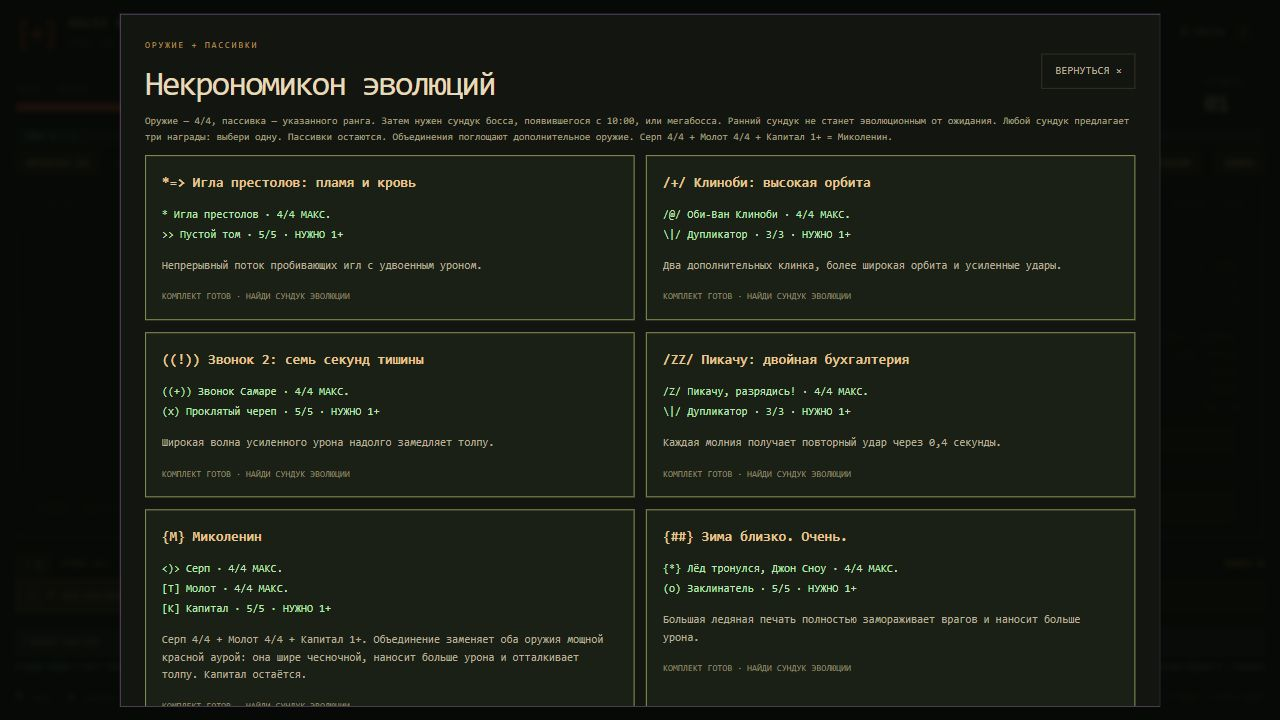
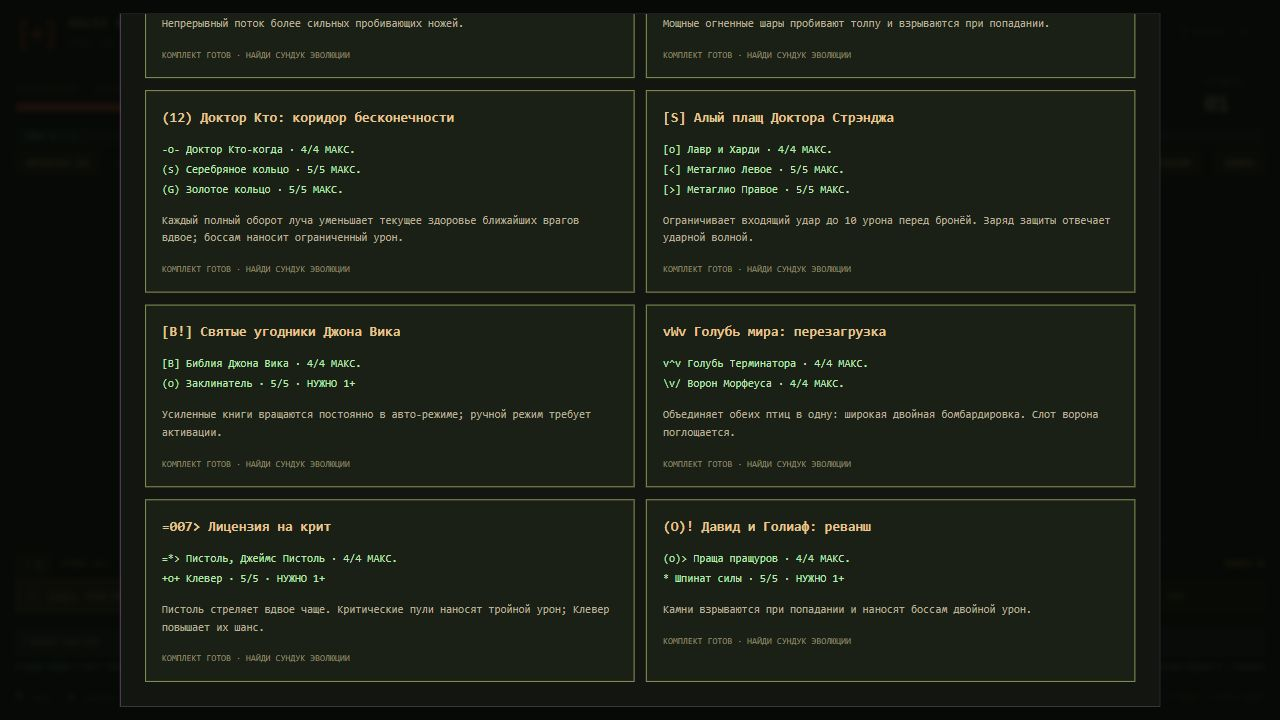
Add thirty original heroes and remove Necronomicon footer note

diff --git a/catalog.js b/catalog.js
@@ -130,18 +130,40 @@
     { id: 'revive', title: 'Ещё одна жизнь', icon: '[+!]', max: 2, cost: 150, text: 'Одно дополнительное возрождение за ранг.' }
   ];
   const CHARACTERS = [
-    { id: 'ripley', name: 'Рипли', role: 'Инженер', weapon: 'fireball', hp: 115, speed: 170, magnet: 90, dash: 3.2, ink: 7, sprite: ' _\n[O]\n/|\\', traits: { armor: 1 }, text: 'Отсылка к «Чужому»: огненный жезл и +1 брони против незваных пассажиров.' },
-    { id: 'shepard', name: 'Шепард', role: 'Командор', weapon: 'rune', hp: 100, speed: 178, magnet: 100, dash: 3, ink: 9, sprite: ' _\n[N7]\n/ \\', traits: { area: .1 }, text: 'Отсылка к Mass Effect: рикошетящие руны и на 10% большая область атак.' },
-    { id: 'samus', name: 'Сэмус', role: 'Охотница за головами', weapon: 'dagger', hp: 120, speed: 180, magnet: 85, dash: 2.9, ink: 12, sprite: ' /_\\\n[=]=>\n/ \\', traits: { armor: 2 }, text: 'Отсылка к Metroid: скоростные ножи как лучевая пушка и +2 брони.' },
-    { id: 'mando', name: 'Мандалорец', role: 'Охотник', weapon: 'axe', hp: 110, speed: 175, magnet: 90, dash: 3.1, ink: 4, sprite: ' /T\\\n[|]\n/ \\', traits: { power: .1 }, text: 'Отсылка к Star Wars: метательные топоры и +10% урона. Таков путь.' },
-    { id: 'hunter', name: 'Мара', role: 'Охотница', weapon: 'needle', hp: 100, speed: 172, magnet: 82, dash: 3.4, ink: 8, sprite: ' ^\n/@\\\n/ \\', text: 'Точный огонь. Надёжный герой для первого забега.' },
+    { id: 'ripley', name: 'Тлен', role: 'Утилизатор', weapon: 'fireball', hp: 115, speed: 170, magnet: 90, dash: 3.2, ink: 7, sprite: ' (x)\n./|\\.\n / \\', traits: { armor: 1 }, text: 'Сжигает проблемы до состояния философии. Огненные шары и +1 брони.' },
+    { id: 'shepard', name: 'Сигма', role: 'Рунный командир', weapon: 'rune', hp: 100, speed: 178, magnet: 100, dash: 3, ink: 9, sprite: '[S]\n/|>\n/ \\', traits: { area: .1 }, text: 'Суммирует ошибки противника. Рикошетящие руны и +10% области атак.' },
+    { id: 'samus', name: 'Болт', role: 'Срыватель резьбы', weapon: 'dagger', hp: 120, speed: 180, magnet: 85, dash: 2.9, ink: 12, sprite: ' [B]\n--|>>\n / \\', traits: { armor: 2 }, text: 'На каждую проблему найдётся свой болт. Скоростные ножи и +2 брони.' },
+    { id: 'mando', name: 'Шрам', role: 'Топорный мастер', weapon: 'axe', hp: 110, speed: 175, magnet: 90, dash: 3.1, ink: 4, sprite: '[/]\n/|P\n/ \\', traits: { power: .1 }, text: 'Рубит с плеча, объясняет потом. Метательные топоры и +10% урона.' },
+    { id: 'hunter', name: 'Клык', role: 'Охотник', weapon: 'needle', hp: 100, speed: 172, magnet: 82, dash: 3.4, ink: 8, sprite: ' ^\n/@\\\n/ \\', text: 'Кусается на расстоянии. Точный огонь и ровные параметры для первого забега.' },
     { id: 'duelist', name: 'Тень', role: 'Дуэлянт', weapon: 'blades', hp: 95, speed: 192, magnet: 82, dash: 2.6, ink: 4, sprite: ' /\\\n<&>\n/ \\', text: 'Быстрый боец с клинком на орбите и частым рывком.' },
-    { id: 'witch', name: 'Искра', role: 'Ведьма', weapon: 'lightning', hp: 85, speed: 180, magnet: 105, dash: 3.4, ink: 5, sprite: ' /\\\n/{\\\n/ \\', text: 'Цепная молния поражает несколько врагов сразу.' },
-    { id: 'warden', name: 'Север', role: 'Страж', weapon: 'frost', hp: 150, speed: 154, magnet: 82, dash: 3.8, ink: 9, sprite: ' _\n[#]\n/ \\', text: 'Много здоровья. Ледяная печать замедляет окружение.' },
-    { id: 'scout', name: 'Руна', role: 'Следопыт', weapon: 'boomerang', hp: 90, speed: 200, magnet: 95, dash: 3, ink: 7, sprite: ' v\n(%>\n/ \\', text: 'Самый быстрый герой. Серп бьёт по пути туда и обратно.' },
-    { id: 'plague', name: 'Мор', role: 'Алхимик', weapon: 'poison', hp: 110, speed: 168, magnet: 147, dash: 3.4, ink: 3, sprite: ' _\n(x)\n/ \\', text: 'Веди толпу по ядовитому следу. Собирает души издалека.' }
+    { id: 'witch', name: 'Катод', role: 'Минус на плюсе', weapon: 'lightning', hp: 85, speed: 180, magnet: 105, dash: 3.4, ink: 5, sprite: '  (-)\n==|+|==\n  / \\', text: 'Плохой контакт — хорошая молния. Цепной разряд поражает несколько целей.' },
+    { id: 'warden', name: 'Вектор-6', role: 'Военный прототип', weapon: 'frost', hp: 150, speed: 154, magnet: 82, dash: 3.8, ink: 9, sprite: '[V6]\n/|=>\n/ \\', text: 'Холодный расчёт, прямые углы. 150 здоровья и ледяная печать для контроля пространства.' },
+    { id: 'scout', name: 'Руна', role: 'Следопыт', weapon: 'boomerang', hp: 90, speed: 200, magnet: 95, dash: 3, ink: 7, sprite: ' v\n(%>\n/ \\', text: 'Быстрый следопыт. Серп бьёт по пути туда и обратно.' },
+    { id: 'plague', name: 'Мор', role: 'Алхимик', weapon: 'poison', hp: 110, speed: 168, magnet: 147, dash: 3.4, ink: 3, sprite: ' _\n(x)\n/ \\', text: 'Веди толпу по ядовитому следу. Собирает души издалека.' },
+    { id: 'zero', name: 'Ноль', role: 'Пустое место', weapon: 'dagger', hp: 80, speed: 205, magnet: 90, dash: 2.7, ink: 4, sprite: '(0)\n-|->\n/ \\', text: 'Тебя недооценили на целую единицу. Быстрый бег, короткий рывок и ножи.' },
+    { id: 'raven', name: 'Ворон', role: 'Чёрный ящик', weapon: 'ebony', hp: 90, speed: 185, magnet: 110, dash: 3.1, ink: 5, sprite: ' \\v/\n<(o)>\n / \\', text: 'Плохие новости доставляет с воздуха. Начинает с чёрной птицей.' },
+    { id: 'ash', name: 'Прах', role: 'Сухой остаток', weapon: 'garlic', hp: 120, speed: 160, magnet: 100, dash: 3.5, ink: 4, sprite: '.:.\n/|\\\n/ \\', traits: { armor: 1 }, text: 'Рассыпается в комплиментах и чесноке. Ближняя аура, 120 здоровья и +1 брони.' },
+    { id: 'volt', name: 'Вольт', role: 'Замыкатель', weapon: 'pistol', hp: 95, speed: 190, magnet: 90, dash: 2.8, ink: 7, sprite: '[Z]\n-|=>\n/ \\', text: 'Напряжённый тип с пистолем. Быстро перемещается и часто делает рывок.' },
+    { id: 'beacon', name: 'Светоч Зарпы', role: 'Звёздный должник', weapon: 'meteor', hp: 100, speed: 170, magnet: 120, dash: 3.3, ink: 7, sprite: '\\ | /\n [*]\n /|\\', traits: { area: .1 }, text: 'Сияет до зарплаты. Метеоры с +10% области атак и большой радиус сбора душ.' },
+    { id: 'stigma', name: 'Стигма', role: 'Носитель печати', weapon: 'bible', hp: 110, speed: 165, magnet: 100, dash: 3.3, ink: 8, sprite: ' [+]\n-|+-\n / \\', traits: { armor: 1 }, text: 'Печать качества потустороннего сервиса. Вращающиеся книги и +1 брони.' },
+    { id: 'moon', name: 'Луна', role: 'Ночная смена', weapon: 'birds', hp: 90, speed: 190, magnet: 115, dash: 3.2, ink: 9, sprite: '(c)\n/|\\\n/ \\', text: 'Уже вышла, пока остальные только собираются. Белая птица бомбит вращающийся сектор.' },
+    { id: 'tact', name: 'Такт', role: 'Сбиватель ритма', weapon: 'pulse', hp: 100, speed: 180, magnet: 100, dash: 3, ink: 5, sprite: ' [~]\n<-|->\n / \\', text: 'На раз — колокол, на два — тишина. Ударная волна и подвижный характер.' },
+    { id: 'cryptoscam', name: 'КриптаСкам', role: 'Могильный инвестор', weapon: 'sling', hp: 90, speed: 175, magnet: 130, dash: 3.3, ink: 7, sprite: ' [$]\n /|\\\n_/ \\_', traits: { greed: .2 }, text: 'Обещает рост до могилы. Праща, широкий сбор душ и +20% базового золота.' },
+    { id: 'mist', name: 'Мгла', role: 'Мутные схемы', weapon: 'water', hp: 90, speed: 195, magnet: 110, dash: 2.9, ink: 3, sprite: ' {~}\n.\\|/.\n / \\', text: 'Напускает туман на финансовые и боевые перспективы. Святые лужи и быстрый отход.' },
+    { id: 'resonance', name: 'Резонанс', role: 'Громкий случай', weapon: 'pulse', hp: 85, speed: 175, magnet: 100, dash: 3.4, ink: 5, sprite: '(())\n <|>\n /|\\', traits: { area: .15 }, text: 'Отзывается даже на чужие проблемы. Волна колокола с +15% области атак.' },
+    { id: 'rime', name: 'Иней', role: 'Морозный осадок', weapon: 'frost', hp: 100, speed: 182, magnet: 105, dash: 3, ink: 9, sprite: '[*]\n-|-\n/ \\', traits: { area: .1 }, text: 'Выпал из прогноза погоды. Ледяное кольцо с +10% области атак.' },
+    { id: 'harvester', name: 'Жнец', role: 'Сезонный работник', weapon: 'axe', hp: 90, speed: 185, magnet: 100, dash: 3.1, ink: 6, sprite: ' /7\n(x)|\n/ \\', traits: { power: .15 }, text: 'Работа сдельная, оплата душами. Метательные топоры наносят на 15% больше урона.' },
+    { id: 'eye', name: 'Око', role: 'Зрячий отдел', weapon: 'fireball', hp: 85, speed: 175, magnet: 145, dash: 3.2, ink: 12, sprite: '<O>\n/|\\\n/ \\', traits: { power: .1 }, text: 'Смотрит с огоньком. Огненные шары, +10% урона и большой радиус сбора душ.' },
+    { id: 'loop', name: 'Петля', role: 'Обратная связь', weapon: 'whip', hp: 110, speed: 180, magnet: 95, dash: 2.9, ink: 6, sprite: '(8)\n/|~\n/ \\', text: 'Каждый разговор возвращается к кнуту. Надёжный боец ближней и средней дистанции.' },
+    { id: 'whisper', name: 'Шёпот', role: 'Тихий запах', weapon: 'garlic', hp: 90, speed: 200, magnet: 120, dash: 2.8, ink: 3, sprite: '(.)\n~|~\n/ \\', text: 'Говорит тихо, пахнет убедительно. Чесночная аура и быстрый бег.' },
+    { id: 'ark', name: 'Ковчег', role: 'Груз особого режима', weapon: 'water', hp: 140, speed: 150, magnet: 110, dash: 3.6, ink: 4, sprite: '[A]\n[|]\n/ \\', traits: { armor: 2 }, text: 'Все твари по паре, все проблемы сразу. Святая вода, 140 здоровья и +2 брони.' },
+    { id: 'abyss', name: 'Бездна', role: 'Провал по плану', weapon: 'pentagram', hp: 100, speed: 175, magnet: 145, dash: 3.2, ink: 5, sprite: '(#)\n\\|/\n/ \\', text: 'Смотрит в ответ и чистит арену. Пентаграмма с редкими мощными вспышками; между ними двигайся.' },
+    { id: 'error', name: 'Ошибка', role: 'Нештатная единица', weapon: 'rune', hp: 90, speed: 190, magnet: 100, dash: 2.7, ink: 13, sprite: '[!]\n/|?\n/ \\', traits: { area: .1 }, text: 'Повторить, пропустить, уничтожить. Рикошетящие руны с +10% области атак.' },
+    { id: 'root', name: 'ROOT', role: 'Админ без выходных', weapon: 'hammer', hp: 120, speed: 162, magnet: 100, dash: 3.5, ink: 13, sprite: '[#]\n-|T\n/ \\', traits: { armor: 2, power: .1 }, text: 'Права есть, выходного нет. Тяжёлый молот, +2 брони и +10% урона.' }
   ];
-  const HERO_PRICES = { hunter: 0, scout: 300, duelist: 400, witch: 500, warden: 650, plague: 750, ripley: 1000, shepard: 1500, samus: 1800, mando: 2000 };
+  const HERO_ORDER = ['witch', 'warden', 'scout', 'plague', 'duelist', 'hunter', 'zero', 'mando', 'raven', 'ash', 'volt', 'beacon', 'stigma', 'ripley', 'samus', 'moon', 'tact', 'cryptoscam', 'mist', 'resonance', 'rime', 'harvester', 'eye', 'loop', 'whisper', 'ark', 'abyss', 'shepard', 'error', 'root'];
+  CHARACTERS.sort((a, b) => HERO_ORDER.indexOf(a.id) - HERO_ORDER.indexOf(b.id));
+  const HERO_PRICES = { hunter: 0, scout: 300, duelist: 400, witch: 500, warden: 650, plague: 750, ripley: 1000, shepard: 1500, samus: 1800, mando: 2000, zero: 450, raven: 700, ash: 550, volt: 850, beacon: 1200, stigma: 950, moon: 900, tact: 800, cryptoscam: 1600, mist: 1050, resonance: 1400, rime: 1100, harvester: 1750, eye: 1300, loop: 1150, whisper: 1250, ark: 2200, abyss: 2600, error: 3200, root: 5000 };
   for (const hero of CHARACTERS) hero.cost = HERO_PRICES[hero.id];
   const catalog = { enemies: ENEMIES, upgrades: UPGRADES, heroes: CHARACTERS, permanents: META, extraWeapons: EXTRA_WEAPONS, evolutions: EVOLUTIONS, features: FEATURES };
   root.NightCatalog = catalog;

diff --git a/index.html b/index.html
@@ -17,7 +17,7 @@
     </header>
 
     <section class="hud" aria-label="Параметры героя">
-      <div class="health-block"><div class="stat-label"><span id="hero-label">МАРА / ЖИЗНЬ</span><b id="hp-text">100 / 100</b></div><div class="health-track"><div id="hp-bar"></div></div></div>
+      <div class="health-block"><div class="stat-label"><span id="hero-label">КЛЫК / ЖИЗНЬ</span><b id="hp-text">100 / 100</b></div><div class="health-track"><div id="hp-bar"></div></div></div>
       <div class="timer-block"><span class="stat-label">ВРЕМЯ / ∞</span><strong id="timer">00:00</strong></div>
       <div class="stat-block enemy-block"><span class="stat-label">ВРАГОВ</span><strong id="enemy-count">0</strong></div>
       <div class="stat-block"><span class="stat-label">ИЗГНАНО</span><strong id="kills">000</strong></div>
@@ -53,8 +53,8 @@ ___|_____|___|__|___|_____|___</pre>
           </div>
           <section class="character-picker" aria-label="Выбор персонажа">
             <div class="picker-heading"><div class="eyebrow">01 / ВЫБЕРИ СВОЕГО ГЕРОЯ</div><button id="meta-open" type="button" class="meta-open">НАСЛЕДИЕ · 50 ЗОЛОТА</button></div>
-            <div class="characters" id="characters" role="group" aria-label="Персонажи"></div>
-            <div class="character-details"><h3 id="character-name">Мара / Охотница</h3><p id="character-description"></p><div id="character-stats"></div><b id="character-weapon"></b></div>
+            <label class="hero-search"><span>30 ГЕРОЕВ</span><input id="hero-search" type="search" placeholder="Найти героя…" aria-label="Поиск героя" autocomplete="off"></label><p id="hero-search-empty" hidden>Герой не найден.</p><div class="characters" id="characters" role="group" aria-label="Персонажи"></div>
+            <div class="character-details"><h3 id="character-name">Клык / Охотник</h3><p id="character-description"></p><div id="character-stats"></div><b id="character-weapon"></b></div>
             <button class="primary-button" id="unlock-hero" type="button" hidden>ОТКРЫТЬ ГЕРОЯ</button>
             <div class="continue-box" id="continue-box" hidden><p id="continue-summary"></p><button class="primary-button" id="continue-run" type="button">ПРОДОЛЖИТЬ ЗАБЕГ →</button></div>
             <button class="primary-button" id="start" type="button">ВОЙТИ В НОЧЬ <span>→</span></button>
@@ -109,7 +109,7 @@ ___|_____|___|__|___|_____|___</pre>
   <dialog id="bestiary" aria-labelledby="bestiary-title"><div class="bestiary-heading"><div><div class="eyebrow">ОБИТАТЕЛИ КЛАДБИЩА</div><h2 id="bestiary-title">Бестиарий</h2></div><button id="bestiary-close" type="button" class="quiet-button">ВЕРНУТЬСЯ ×</button></div><p class="bestiary-hint">Перед рывком появляется линия, перед телепортацией — метка. Уходи с линии атаки.</p><div id="bestiary-list" class="bestiary-grid"></div></dialog>
   <dialog id="meta-shop" aria-labelledby="meta-title"><div class="bestiary-heading"><div><div class="eyebrow">ПОСТОЯННЫЕ УЛУЧШЕНИЯ</div><h2 id="meta-title">Наследие</h2><strong id="meta-gold">50 ЗОЛОТА</strong></div><button id="meta-close" type="button" class="quiet-button">ВЕРНУТЬСЯ ×</button></div><p class="bestiary-hint">До бонусов: каждые 5 убийств +0,75 · мини-босс +18,75 · мегабосс +93,75 · сундук +7,5 · минута +3,75. Дробное золото накапливается. Разделы покупаются навсегда. Первые 50 — стартовый запас. Старые достижения тоже учтены. Покупки действуют в новых забегах.</p><div id="meta-grid" class="meta-grid"></div><p id="meta-message" role="status"></p></dialog>
   <dialog id="world-map" aria-labelledby="map-title"><div class="bestiary-heading"><div><div class="eyebrow">БОЛЬШОЕ КЛАДБИЩЕ</div><h2 id="map-title">Карта сокровищ</h2></div><button id="map-close" type="button" class="quiet-button">ВЕРНУТЬСЯ ×</button></div><p class="bestiary-hint">@ — герой · X — тайник · $ — сундук. Подойди к тайнику, чтобы выбрать награду. Каждый тайник открывается один раз за забег. Бой на паузе.</p><svg id="treasure-map" role="img" aria-label="Карта кладбища с положением героя и сокровищ"></svg><p id="map-summary"></p></dialog>
-  <dialog id="grimoire" aria-labelledby="grimoire-title"><div class="bestiary-heading"><div><div class="eyebrow">ОРУЖИЕ + ПАССИВКИ</div><h2 id="grimoire-title">Некрономикон эволюций</h2></div><button id="grimoire-close" type="button" class="quiet-button">ВЕРНУТЬСЯ ×</button></div><p class="bestiary-hint">Оружие — 4/4, пассивка — указанного ранга. Затем нужен сундук босса, появившегося с 10:00, или мегабосса. Ранний сундук не станет эволюционным от ожидания. Любой сундук предлагает три награды: выбери одну. Пассивки остаются. Объединения поглощают дополнительное оружие. Серп 4/4 + Молот 4/4 + Капитал 1+ = Миколенин.</p><div id="recipe-list" class="recipe-grid"></div><p class="bestiary-hint">Наши рецепты и каламбуры основаны на <a href="https://vampire.survivors.wiki/w/Evolution" target="_blank" rel="noopener noreferrer">механике эволюций Vampire Survivors</a>. Цифры адаптированы под нашу арену.</p></dialog>
+  <dialog id="grimoire" aria-labelledby="grimoire-title"><div class="bestiary-heading"><div><div class="eyebrow">ОРУЖИЕ + ПАССИВКИ</div><h2 id="grimoire-title">Некрономикон эволюций</h2></div><button id="grimoire-close" type="button" class="quiet-button">ВЕРНУТЬСЯ ×</button></div><p class="bestiary-hint">Оружие — 4/4, пассивка — указанного ранга. Затем нужен сундук босса, появившегося с 10:00, или мегабосса. Ранний сундук не станет эволюционным от ожидания. Любой сундук предлагает три награды: выбери одну. Пассивки остаются. Объединения поглощают дополнительное оружие. Серп 4/4 + Молот 4/4 + Капитал 1+ = Миколенин.</p><div id="recipe-list" class="recipe-grid"></div></dialog>
   <script src="enemy-roster.js"></script>
   <script src="catalog.js"></script>
   <script src="enemy-system.js"></script>

diff --git a/style.css b/style.css
@@ -47,6 +47,10 @@ canvas { display: block; width: 100%; height: 100%; position: absolute; inset: 0
 .intro-story .intro-keys { flex-wrap: wrap; gap: 10px; }
 .character-picker { text-align: left; min-width: 0; }
 .characters { display: grid; grid-template-columns: repeat(3, 1fr); gap: 8px; margin: 16px 0; }
+#characters { max-height: 230px; overflow-y: auto; overscroll-behavior: contain; scrollbar-width: thin; scrollbar-color: #8d7445 #171b13; padding: 3px; }
+.hero-search { display: flex; align-items: center; gap: 12px; margin: 10px 0 0; color: #a99875; font-size: 8px; }
+.hero-search input { min-width: 0; flex: 1; border: 1px solid #494333; color: #e4d6bb; background: #151a13; padding: 8px; font: inherit; font-size: 10px; }
+#hero-search-empty { color: #c4a47b; font-size: 10px; }
 .character-card { background: #1a1b15; border: 1px solid #413b2b; padding: 10px 6px; color: #b3a58a; text-align: center; min-width: 0; }
 .character-card:hover { background: #292419; border-color: #8d7445; }
 .character-card[aria-pressed="true"] { background: #31271b; border-color: #cba568; box-shadow: inset 0 -2px #cba568; color: #ebcd91; }

diff --git a/game.js b/game.js
@@ -476,6 +476,15 @@
   });
   $('save-metrics').addEventListener('click', exportMetrics);
   $('characters').addEventListener('click', e => { const card = e.target.closest('[data-character]'); if (card) selectCharacter(card.dataset.character); });
+  $('hero-search').addEventListener('input', e => {
+    const query = e.target.value.toLocaleLowerCase('ru').replaceAll('ё', 'е').trim(); let visible = 0;
+    for (const card of $('characters').children) {
+      const hero = NightCharacters.find(c => c.id === card.dataset.character);
+      card.hidden = !(hero.name + ' ' + hero.role).toLocaleLowerCase('ru').replaceAll('ё', 'е').includes(query);
+      if (!card.hidden) visible++;
+    }
+    $('hero-search-empty').hidden = visible > 0;
+  });
   $('upgrade-cards').addEventListener('click', e => { const card = e.target.closest('[data-choice]'); if (card) choose(Number(card.dataset.choice)); });
   document.addEventListener('keydown', e => {
     if ($('bestiary').open || $('meta-shop').open || $('grimoire').open || $('world-map').open) return;

diff --git a/core.js b/core.js
@@ -102,7 +102,7 @@
     get armor() { return this.levels.armor * 2 + this.meta.armor + (this.character.traits?.armor || 0); }
     get growth() { return 1 + this.levels.growth * .1 + this.meta.growth * .03; }
     get luck() { return 1 + this.levels.luck * .1; }
-    get greed() { return 1 + this.levels.greed * .15 + this.levels.capital * .15 + this.levels.curse * .2 + (this.levels.goldRing + this.levels.rightSign) * .1; }
+    get greed() { return 1 + this.levels.greed * .15 + this.levels.capital * .15 + this.levels.curse * .2 + (this.levels.goldRing + this.levels.rightSign) * .1 + (this.character.traits?.greed || 0); }
     get damage() { return 20 * (1 + .25 * Math.max(0, this.levels.needle - 1)) * this.power; }
     get cooldown() { return .68 * BALANCE.weaponCooldown / this.haste / (1 + .12 * Math.max(0, this.levels.needle - 1)) * (this.isEvolved('needle') ? .4 : 1); }
     get speed() { return this.character.speed * (1 + .15 * this.levels.stride + .03 * this.meta.stride) * (this.player.slowTill > this.time ? .65 : 1); }
